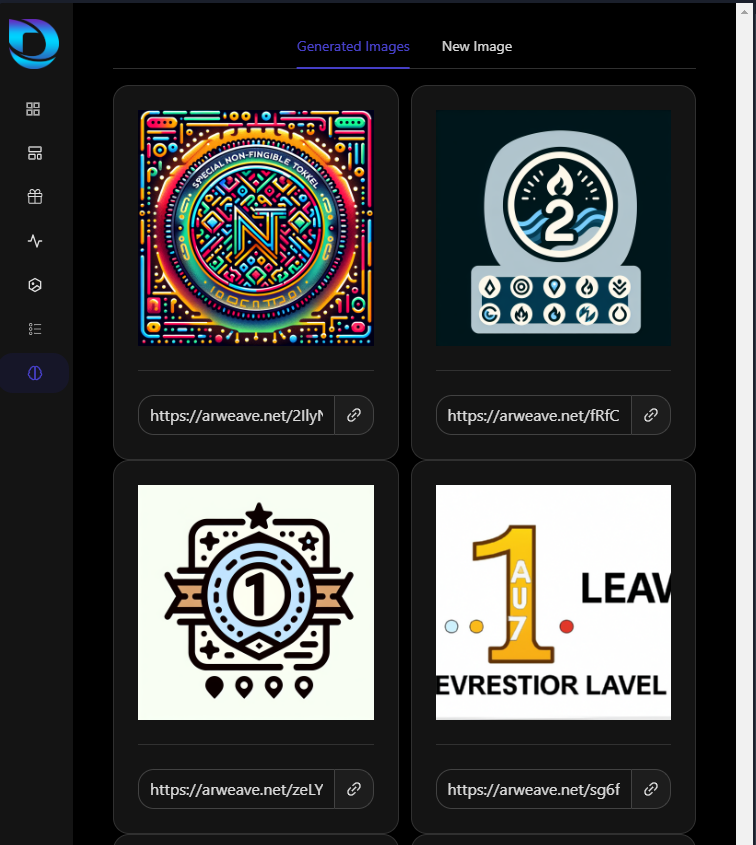
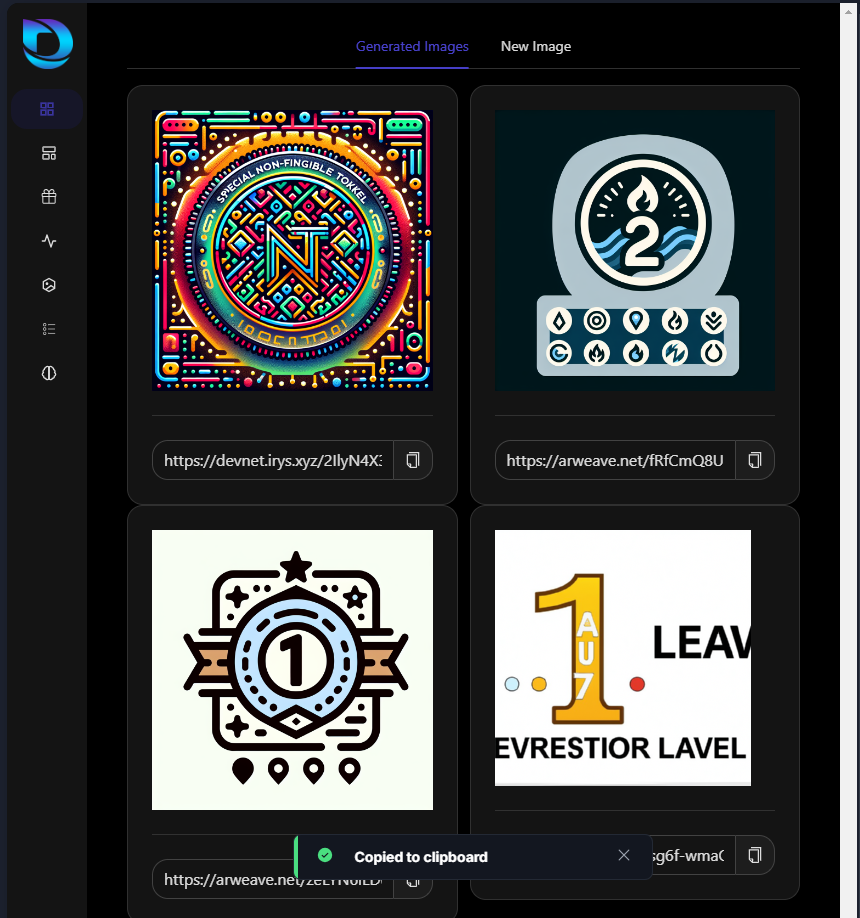
add spining wrapper to generated images component

diff --git a/src/components/image/AllImages.tsx b/src/components/image/AllImages.tsx
@@ -1,6 +1,6 @@
 import { useAppSelector } from "@/controller/hooks";
 import { GeneratedImages } from "./GeneratedImages";
-import { Col, Row } from "antd";
+import { Col, Row, Spin } from "antd";
 import { useEffect } from "react";
 import { useDBGeneratedImage } from "@/hooks/useDBGeneratedImage";
 import { useCanvasClient } from "@/hooks/useCanvasClient";
@@ -9,6 +9,7 @@ export const AllImages = () => {
     const { initializeCanvas, state } = useCanvasClient();
     const { images } = useAppSelector(state => state.image);
     const { getList } = useDBGeneratedImage();
+    const { loadGeneratedImagesAction } = useAppSelector(state => state.process)
     useEffect(() => {
         getList();
     }, [])
@@ -20,18 +21,20 @@ export const AllImages = () => {
                 await newState.client?.copyToClipboard(url);
 
             } else {
-               await state.client?.copyToClipboard(url);
+                await state.client?.copyToClipboard(url);
             }
-        } catch(e) {
+        } catch (e) {
             console.log(e);
         }
-        
+
     }
     return (
-        <Row gutter={12}>
-            {
-                (images.length > 0) && images.map((i, index) => <Col key={`images-${index}`} span={12}><GeneratedImages doCopy={doCopy} image={i.image} /></Col>)
-            }
-        </Row>
+        <Spin spinning={loadGeneratedImagesAction}>
+            <Row gutter={12}>
+                {
+                    (images.length > 0) && images.map((i, index) => <Col key={`images-${index}`} span={12}><GeneratedImages doCopy={doCopy} image={i.image} /></Col>)
+                }
+            </Row>
+        </Spin>
     )
 }
